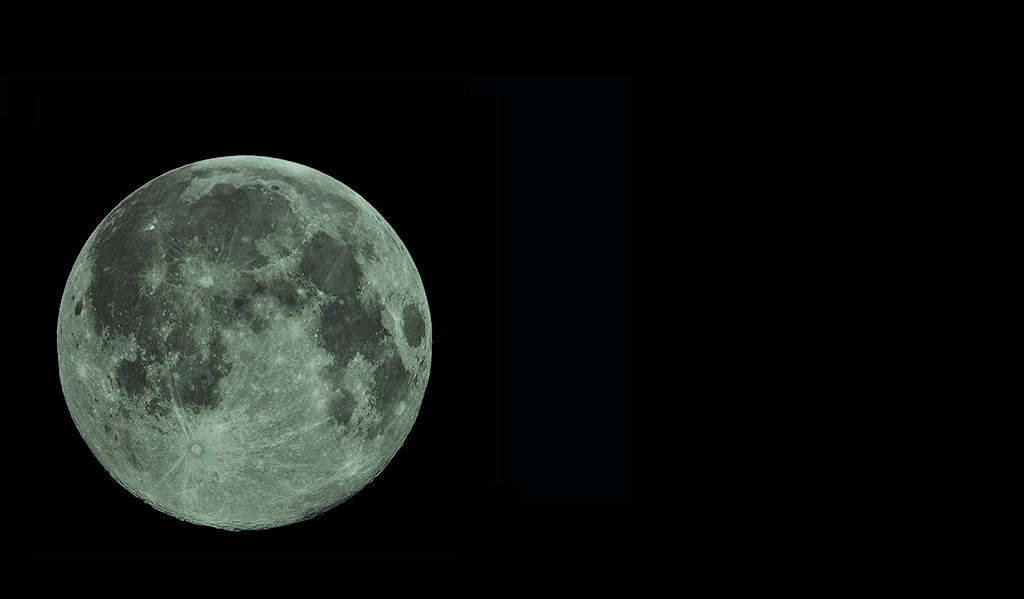
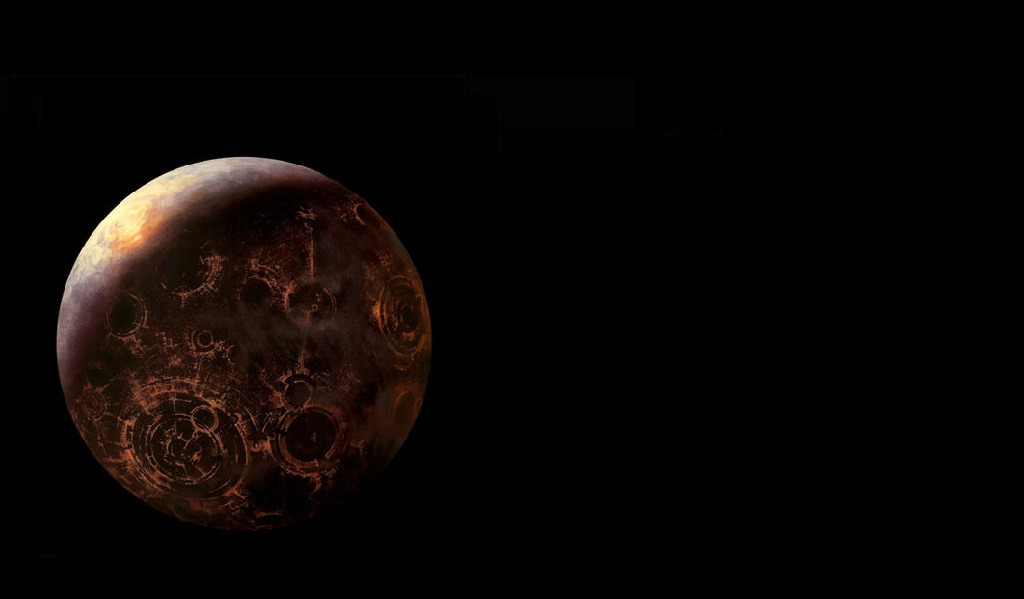
feature: added coruscant

Changed region(s): [[0.0312, 0.2404, 0.4375, 0.9015]]

diff --git a/src/app/background/background.component.ts b/src/app/background/background.component.ts
@@ -20,7 +20,7 @@ export class BackgroundComponent implements OnInit , AfterViewInit{
     this.svg = select('.background');
     this.svg.attr('shaper-rendering', 'crispEdges');
     Observable.fromEvent(document.body, 'mousemove').subscribe((e : any )=> {
-    let barHeight = 1;
+    let barHeight = 100;
     let x0 = e.clientX;
     let y0 = e.clientY;
     this.svg.selectAll('rect').remove();
